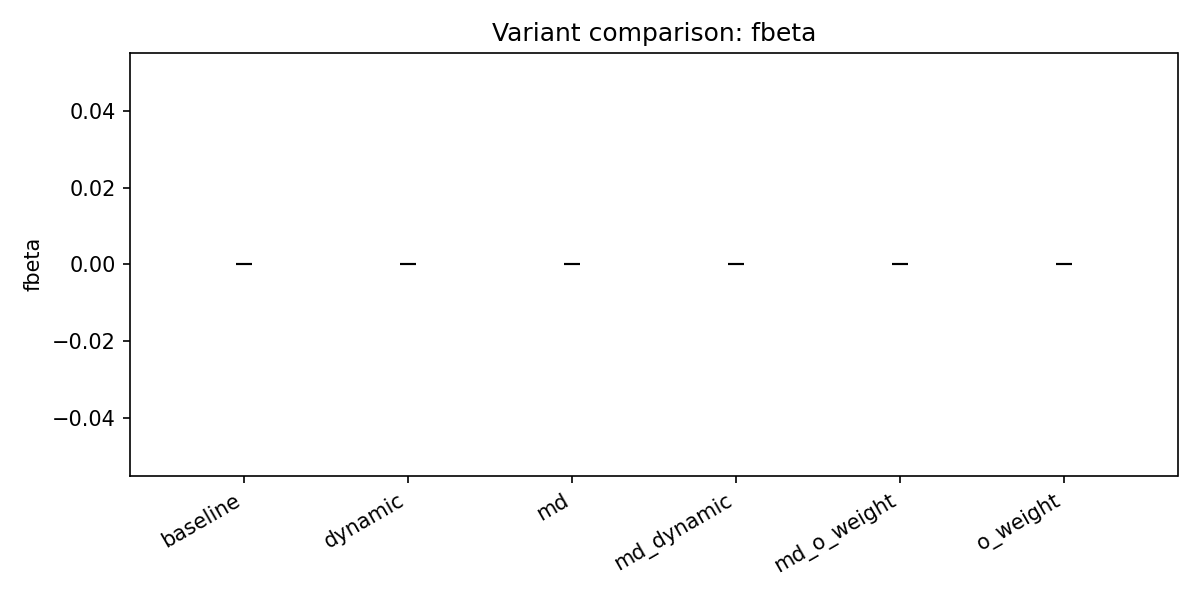
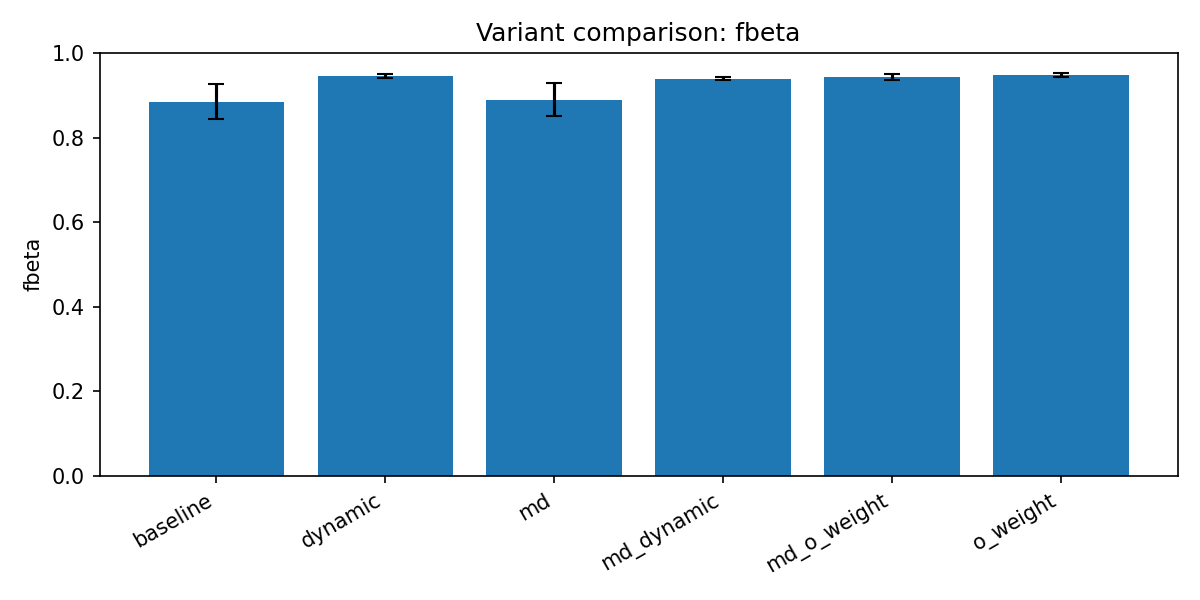
perform model ensembling (weighted-average ensembling, stacker (neural-network), stacker (xgboost)

diff --git a/scripts/eval_methods.py b/scripts/eval_methods.py
@@ -12,7 +12,7 @@ from typing import Dict
 PROJECT_ROOT = Path(__file__).resolve().parents[1]
 sys.path.insert(0, str(PROJECT_ROOT))
 
-from src.inference.ensemble import ensemble_folds
+from src.inference.ensemble import ensemble_folds, ensemble_variants
 from src.inference.stacker import load_stacker, predict_with_stacker, train_stacker
 from src.inference.xgb_stacker import load_xgb_stacker, predict_with_xgb_stacker, train_xgb_stacker
 from src.metrics.metrics import compute_metrics
@@ -31,11 +31,10 @@ def eval_ensemble(run_name: str, temperature: float) -> Dict[str, float]:
     return compute_metrics((probs, labels), _load_id2label(run_name))
 
 
-def eval_mlp_stacker(base_runs, stacker_path: str | None) -> Dict[str, float]:
+def eval_mlp_stacker(base_runs, stacker_path: str | None, output_dir: str) -> Dict[str, float]:
     if stacker_path:
         model = load_stacker(stacker_path)
     else:
-        output_dir = Path("outputs") / "stacker_temp"
         model_path = train_stacker(base_runs, output_dir=str(output_dir))
         model = load_stacker(model_path)
 
@@ -43,11 +42,10 @@ def eval_mlp_stacker(base_runs, stacker_path: str | None) -> Dict[str, float]:
     return compute_metrics((probs, labels), _load_id2label(base_runs[0]))
 
 
-def eval_xgb_stacker(base_runs, model_path: str | None) -> Dict[str, float]:
+def eval_xgb_stacker(base_runs, model_path: str | None, output_dir: str) -> Dict[str, float]:
     if model_path:
         booster = load_xgb_stacker(model_path)
     else:
-        output_dir = Path("outputs") / "xgb_stacker_temp"
         model_path = train_xgb_stacker(base_runs, output_dir=str(output_dir))
         booster = load_xgb_stacker(model_path)
 
@@ -55,23 +53,118 @@ def eval_xgb_stacker(base_runs, model_path: str | None) -> Dict[str, float]:
     return compute_metrics((probs, labels), _load_id2label(base_runs[0]))
 
 
+def eval_variant_ensemble(runs, temperature: float, ensemble_name: str) -> Dict[str, float]:
+    return ensemble_variants(runs, ensemble_name=ensemble_name, temperature=temperature)
+
+
+def _discover_runs(output_dir: str = "outputs") -> list[str]:
+    runs = []
+    for path in Path(output_dir).iterdir():
+        if path.is_dir() and (path / "summary.json").exists():
+            runs.append(path.name)
+    return sorted(runs)
+
+
+def _summarize_metrics(run_metrics: Dict[str, Dict[str, float]]) -> Dict[str, Dict[str, float]]:
+    if not run_metrics:
+        return {}
+    metric_keys = list(next(iter(run_metrics.values())).keys())
+    totals = {key: 0.0 for key in metric_keys}
+    for metrics in run_metrics.values():
+        for key in metric_keys:
+            totals[key] += metrics[key]
+    mean = {key: totals[key] / len(run_metrics) for key in metric_keys}
+    max_vals = {key: max(m[key] for m in run_metrics.values()) for key in metric_keys}
+    return {"mean": mean, "max": max_vals}
+
+
+def _best_run_by_metric(run_metrics: Dict[str, Dict[str, float]], metric_key: str) -> Dict[str, object]:
+    if not run_metrics:
+        return {}
+    best_run, best_metrics = max(
+        run_metrics.items(),
+        key=lambda item: item[1].get(metric_key, float("-inf")),
+    )
+    return {"run": best_run, "metrics": best_metrics}
+
+
+def _rank_methods(method_scores: Dict[str, float]) -> list[Dict[str, float | str]]:
+    ranked = sorted(method_scores.items(), key=lambda item: item[1], reverse=True)
+    return [{"method": name, "score": score} for name, score in ranked]
+
+
 def main() -> None:
     parser = argparse.ArgumentParser()
-    parser.add_argument("--run", required=True, help="Run name for fold ensemble")
-    parser.add_argument("--base-runs", nargs="+", required=True, help="Runs to use for stackers")
+    parser.add_argument("--run", default=None, help="Run name for fold ensemble")
+    parser.add_argument("--base-runs", nargs="+", default=None, help="Runs to use for stackers")
+    parser.add_argument("--runs", nargs="*", default=None, help="Run names to evaluate across methods")
+    parser.add_argument("--all-runs", action="store_true", help="Use all runs discovered in outputs/")
     parser.add_argument("--temperature", type=float, default=1.0)
     parser.add_argument("--mlp-stacker", default=None, help="Path to stacker.pt")
+    parser.add_argument("--mlp-stacker-out", default=None, help="Output dir for training MLP stacker")
     parser.add_argument("--xgb-stacker", default=None, help="Path to xgb_stacker.json")
+    parser.add_argument("--xgb-stacker-out", default=None, help="Output dir for training XGB stacker")
+    parser.add_argument("--ensemble-name", default=None, help="Name for cross-run ensemble outputs")
+    parser.add_argument("--metric", default="fbeta", help="Metric key used to select the best method")
     parser.add_argument("--out", default="outputs/analysis/methods.json")
     args = parser.parse_args()
 
     os.chdir(PROJECT_ROOT)
 
-    results = {
-        "ensemble": eval_ensemble(args.run, temperature=args.temperature),
-        "mlp_stacker": eval_mlp_stacker(args.base_runs, args.mlp_stacker),
-        "xgb_stacker": eval_xgb_stacker(args.base_runs, args.xgb_stacker),
-    }
+    runs = None
+    if args.all_runs:
+        runs = _discover_runs()
+    elif args.runs:
+        runs = args.runs
+
+    results: Dict[str, object] = {}
+    if runs:
+        ensemble_name = args.ensemble_name or "ensemble_all_runs"
+        mlp_output_dir = args.mlp_stacker_out or "outputs/stacker_all_runs"
+        xgb_output_dir = args.xgb_stacker_out or "outputs/xgb_stacker_all_runs"
+
+        fold_metrics = {run: eval_ensemble(run, temperature=args.temperature) for run in runs}
+        fold_summary = _summarize_metrics(fold_metrics)
+        results["runs"] = runs
+        results["fold_ensemble"] = {
+            "by_run": fold_metrics,
+            "summary": fold_summary,
+            "best_run_by_metric": _best_run_by_metric(fold_metrics, args.metric),
+        }
+        results["variant_ensemble"] = eval_variant_ensemble(
+            runs,
+            temperature=args.temperature,
+            ensemble_name=ensemble_name,
+        )
+        results["mlp_stacker"] = eval_mlp_stacker(runs, args.mlp_stacker, mlp_output_dir)
+        try:
+            results["xgb_stacker"] = eval_xgb_stacker(runs, args.xgb_stacker, xgb_output_dir)
+        except ImportError as exc:
+            results["xgb_stacker"] = {"error": str(exc)}
+
+        method_scores: Dict[str, float] = {}
+        if fold_summary:
+            method_scores["fold_ensemble_mean"] = fold_summary["mean"].get(args.metric, float("-inf"))
+        for key in ("variant_ensemble", "mlp_stacker", "xgb_stacker"):
+            metrics = results.get(key, {})
+            if isinstance(metrics, dict) and args.metric in metrics:
+                method_scores[key] = metrics[args.metric]
+
+        ranking = _rank_methods(method_scores)
+        results["method_ranking"] = ranking
+        if ranking:
+            results["best_method"] = {"metric": args.metric, **ranking[0]}
+    else:
+        if not args.run or not args.base_runs:
+            parser.error("Provide --run/--base-runs or use --runs/--all-runs.")
+        results = {
+            "ensemble": eval_ensemble(args.run, temperature=args.temperature),
+            "mlp_stacker": eval_mlp_stacker(args.base_runs, args.mlp_stacker, "outputs/stacker_temp"),
+        }
+        try:
+            results["xgb_stacker"] = eval_xgb_stacker(args.base_runs, args.xgb_stacker, "outputs/xgb_stacker_temp")
+        except ImportError as exc:
+            results["xgb_stacker"] = {"error": str(exc)}
 
     out_path = Path(args.out)
     out_path.parent.mkdir(parents=True, exist_ok=True)

diff --git a/src/analysis/compare_variants.py b/src/analysis/compare_variants.py
@@ -18,10 +18,11 @@ def compare_variants(
     run_names = list(run_names)
     report: List[dict] = []
 
+    metric_key = metric if metric.startswith("eval_") else f"eval_{metric}"
     for run_name in run_names:
         summary_path = Path("outputs") / run_name / "summary.json"
         data = json.loads(summary_path.read_text())
-        stats = data.get("summary", {}).get(metric, {})
+        stats = data.get("summary", {}).get(metric_key, {})
         report.append({
             "run_name": run_name,
             "metric": metric,

diff --git a/src/analysis/plots.py b/src/analysis/plots.py
@@ -61,11 +61,12 @@ def plot_variant_comparison(
     run_names = list(run_names)
     means: List[float] = []
     stds: List[float] = []
+    metric_key = metric if metric.startswith("eval_") else f"eval_{metric}"
 
     for run_name in run_names:
         summary_path = Path("outputs") / run_name / "summary.json"
         data = json.loads(summary_path.read_text())
-        stats = data.get("summary", {}).get(metric, {})
+        stats = data.get("summary", {}).get(metric_key, {})
         means.append(stats.get("mean", 0.0))
         stds.append(stats.get("std", 0.0))
 

diff --git a/config/gpu_5090.py b/config/gpu_5090.py
@@ -1,6 +1,6 @@
 """Overrides tuned for RTX 5090 with 32GB VRAM."""
 
-BATCH_SIZE = 64
+BATCH_SIZE = 16
 GRADIENT_ACCUMULATION_STEPS = 1
 GRADIENT_CHECKPOINTING = True
 MAX_GRAD_NORM = 1.0